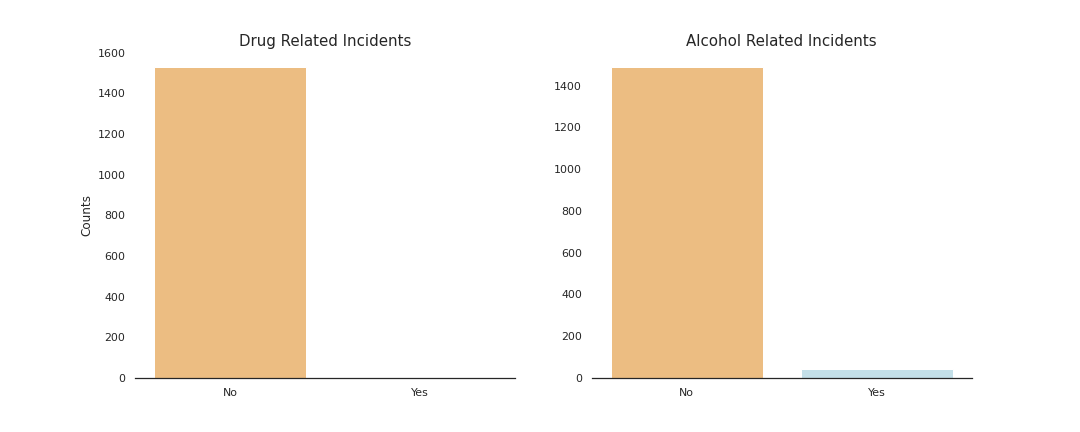
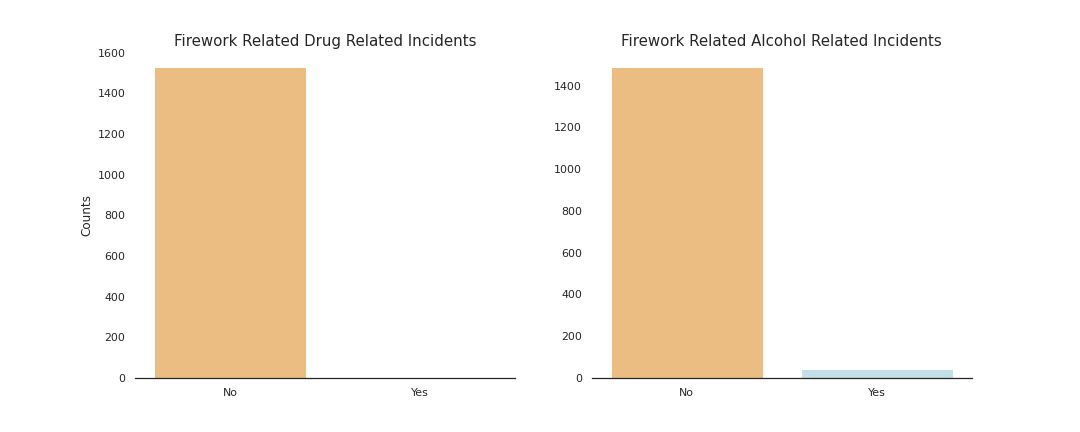
update figrue titles

Changed region(s): [[0.5806, 0.0602, 0.8861, 0.1204], [0.1528, 0.0602, 0.4583, 0.1204]]

diff --git a/reports/figures/README.md b/reports/figures/README.md
@@ -5,9 +5,10 @@
 
 <br>
 
->Alcohol Related Incidents.png
+>Drug_and_Alcohol_Counts.png
+<img src="/reports/figures/Drug_and_Alcohol_Counts.png" height="300">
 
-<img src="/reports/figures/Alcohol Related Incidents.png" height="300">
+<br>
 
 >Incident Counts by Age_Bar.png
 <img src="/reports/figures/Incident Counts by Age_Bar.png" height="300">
@@ -42,7 +43,4 @@
 >Incident Counts by Year.png
 <img src="/reports/figures/Incident Counts by Year.png" height="300">
 
-
->Drug_and_Alcohol_Counts.png
-<img src="/reports/figures/Drug_and_Alcohol_Counts.png" height="300">
 
